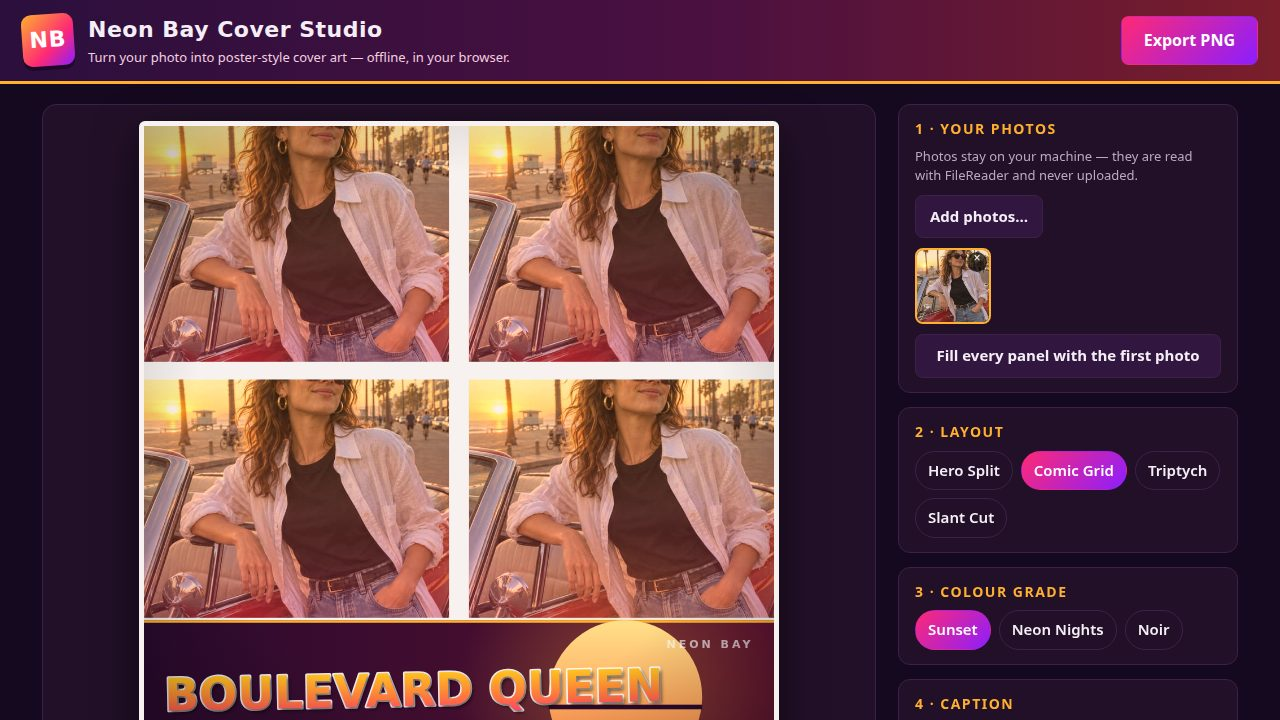
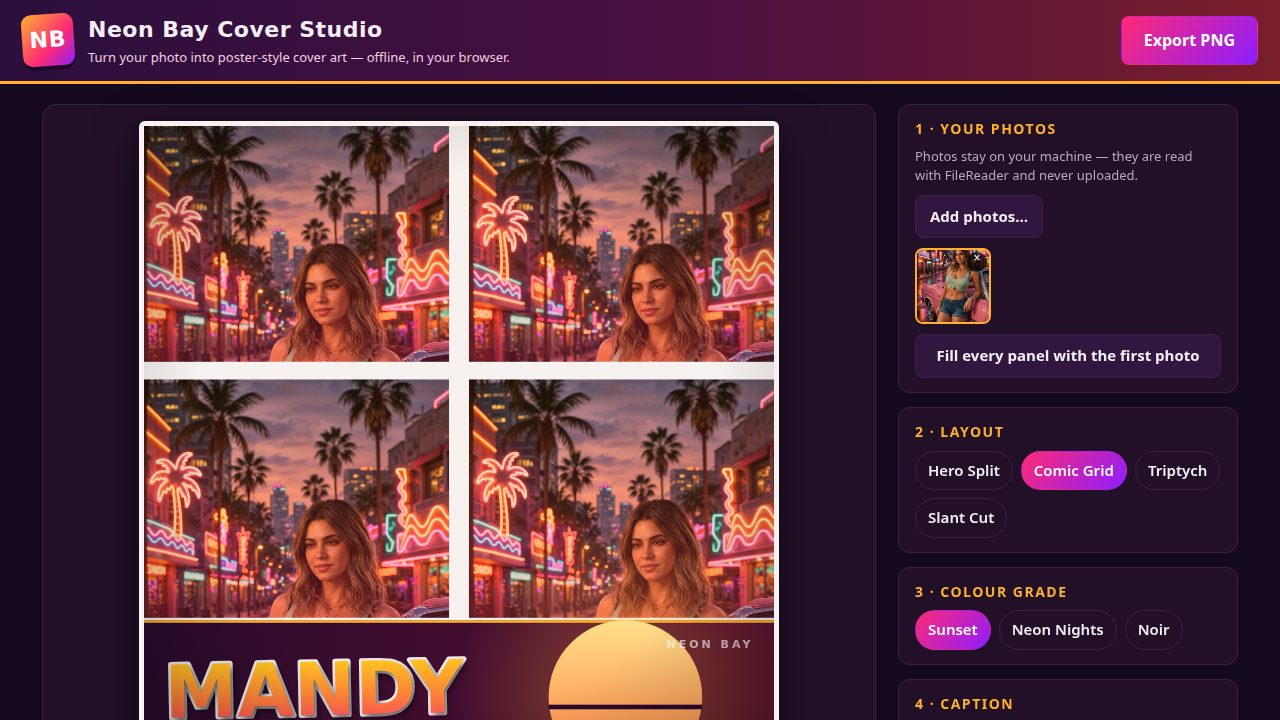
Mandy v3 samples: replace stock photos with Mandy art, default caption MANDY
- Sample photos are now mandy-portrait.jpg (Leonida Keys porch, golden hour)
  and mandy-neon.jpg (neon Vice City street), replacing boulevard/pier
- Default title MANDY, subtitle NEON BAY — ONE LAST RIDE
- shots.json regenerates all 4 screenshots from the Mandy samples
- shots.js gains an oy query param: tall photos cover-fit to the torso in
  wide panels, so hero/grid shots shift the photo down (oy=0.75) to keep
  the face in frame; tall panels keep oy=0

diff --git a/app/src/shots.js b/app/src/shots.js
@@ -1,12 +1,12 @@
 // Fixed scenes for screenshots, driven by the page query string:
-//   ?shot=editor&photo=pier&caption=Sunset%20Heist&layout=hero&grade=sunset
-//   ?shot=cover&photo=boulevard&caption=Boulevard%20Queen&layout=grid&size=wide
+//   ?shot=editor&photo=mandy-neon&caption=Mandy&layout=grid&grade=sunset
+//   ?shot=cover&photo=mandy-portrait&caption=Mandy&layout=hero&size=wide
 // `editor` shows the studio with a sample photo loaded; `cover` shows the PNG
 // the app itself exported, full-bleed. Either way window.__shotReady is set
 // once the scene has painted, so a screenshot tool can wait on it.
 export async function runShot(shot, query, app) {
-  const photo = query.get('photo') || 'pier';
-  const caption = query.get('caption') || 'Sunset Heist';
+  const photo = query.get('photo') || 'mandy-portrait';
+  const caption = query.get('caption') || 'Mandy';
   const subtitle = query.get('subtitle') || undefined;
   const layout = query.get('layout') || 'hero';
   const grade = query.get('grade') || 'sunset';
@@ -17,6 +17,16 @@ export async function runShot(shot, query, app) {
   app.setSize(size);
   await app.loadSample(photo);
   app.setCaption(caption, subtitle);
+
+  // Tall sample photos cover-fit to the torso at zoom 1, so wide panels
+  // (hero, grid) cut the subject's face off. A downward shift pulls the
+  // face back into frame. Tall panels (triptych, slant) already show the
+  // full height, so they leave oy at 0.
+  const oy = Number.parseFloat(query.get('oy') || '0') || 0;
+  if (oy !== 0) {
+    window.__neonBay.state.panels.forEach((p) => { p.oy = oy; });
+    window.__neonBay.redraw();
+  }
 
   if (shot === 'cover') {
     await app.showExportedCover(size);

diff --git a/app/index.html b/app/index.html
@@ -57,9 +57,9 @@
     <section class="panel-block">
       <h2>4 &middot; Caption</h2>
       <label class="field-label" for="titleInput">Title</label>
-      <input id="titleInput" type="text" maxlength="28" value="Sunset Heist" autocomplete="off">
+      <input id="titleInput" type="text" maxlength="28" value="Mandy" autocomplete="off">
       <label class="field-label" for="subInput">Tagline</label>
-      <input id="subInput" type="text" maxlength="48" value="Neon Bay &mdash; one last ride" autocomplete="off">
+      <input id="subInput" type="text" maxlength="48" value="Neon Bay &mdash; One Last Ride" autocomplete="off">
     </section>
 
     <section class="panel-block">

diff --git a/app/src/main.js b/app/src/main.js
@@ -23,8 +23,8 @@ const state = {
   layoutId: 'hero',
   gradeId: 'sunset',
   sizeId: 'square',
-  title: 'Sunset Heist',
-  subtitle: 'Neon Bay — one last ride',
+  title: 'Mandy',
+  subtitle: 'Neon Bay — One Last Ride',
   selected: 0,
 };
 
